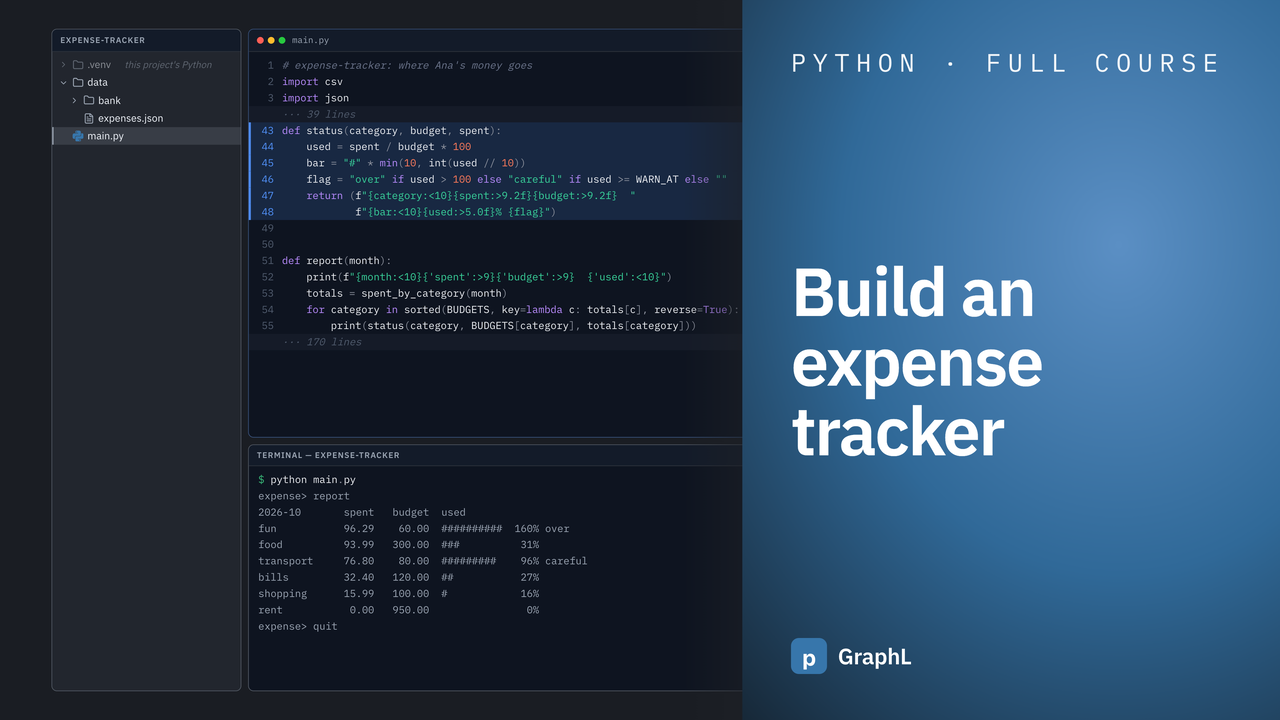
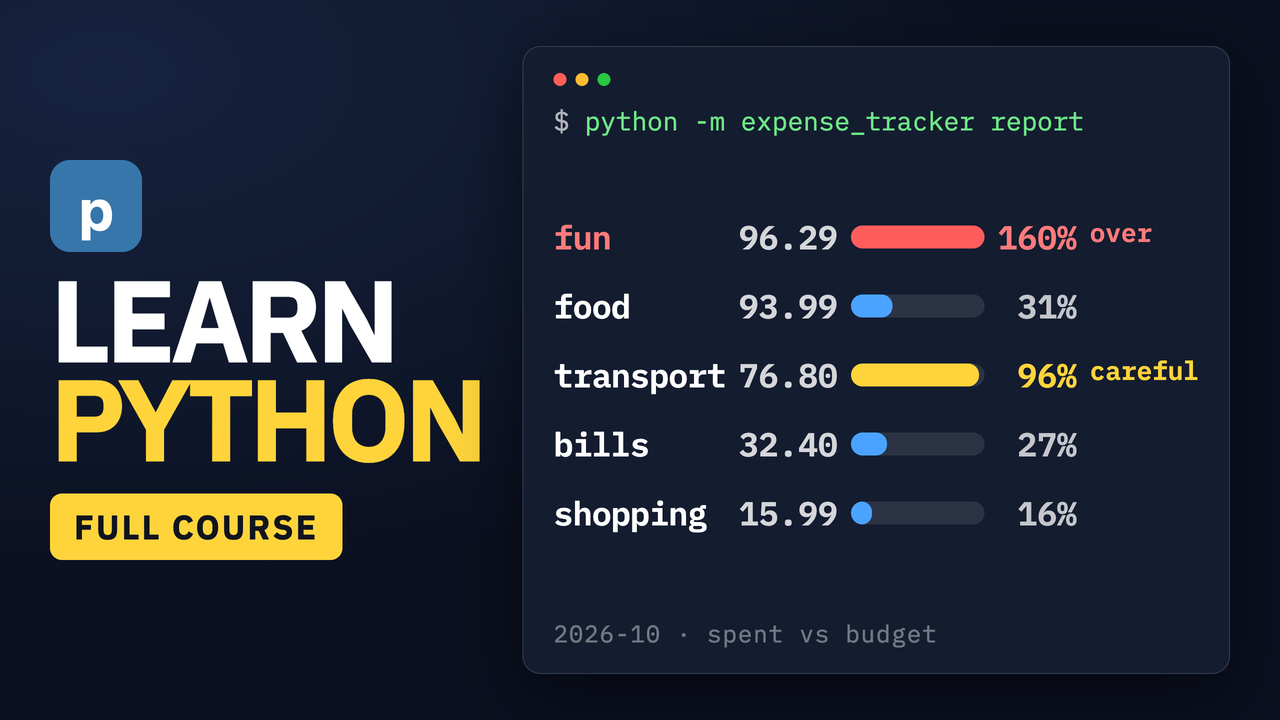
Build the film thumbnail from the real report, not a scene crop
The shell's `graphl-thumb` renders a per-course poster: 58% of a scene plus a
text panel. A scene is a 16:9 video frame, and cropped to 58% it turns to mush
at the ~168px the YouTube mobile feed actually renders — which is the only size
that decides a thumbnail. scripts/thumb-film.mjs uses poster grammar instead:
few elements, enormous type, one focal object. Every change was checked by
downscaling to 168px rather than by looking at it at 1280px.

Two guards keep it honest, so the content cannot drift from the course:

- The rows are parsed out of spine/ship/04-the-finished-app/session.txt, the
  same replayed output the scenes use, and a row that is not in that report is
  a hard error. An invented number cannot reach the thumbnail.

- The renderer asserts no element overflows its box. This caught `over` and
  `careful` being silently clipped off the right edge after the type was
  enlarged; a clipped label now fails the build instead of shipping.

That first guard is the exact failure mode of the generated samples already in
this folder, which show `python expense_tracker.py`, invented round totals, a
"% of Total" column and a 1/2/3/4 menu — an app this course does not build.
output/thumbnails/README.md records the mismatch and why the samples were not
used; the samples themselves are left in place.

film.png ships the dark variant; navy and light are kept beside it. The
superseded graphl-thumb attempts (film-a/b/c) are removed — git history has
them.

diff --git a/output/thumbnails/README.md b/output/thumbnails/README.md
@@ -1,22 +1,44 @@
 # Thumbnails
 
-`film.png` — the chosen thumbnail for the single full-course video
-(`scripts/out/film.mp4`). Built from a real scene, not an illustration:
+`film.png` — the thumbnail for the single full-course video (`scripts/out/film.mp4`).
+A copy of `film-dark.png`. Rebuild any variant with:
 
 ```sh
-LOGO_SVG=public/favicon.svg npm run thumb -- report --section 6 \
-  --title "Build an expense tracker" --kicker "PYTHON · FULL COURSE" \
-  --out output/thumbnails/film.png
+npm run thumb:film -- --theme dark --rows fun,food,transport,bills,shopping \
+  --out output/thumbnails/film-dark.png
 ```
 
-`report --section 6` is *Formatting the report*: the editor shows the code and the
-terminal below it shows October's real report — the `#` bars, `160% over`,
-`96% careful`. The template renders the LEFT 58% of the scene, so a scene whose
-payoff sits on the right (the app map in `intro`/`ship`) gets clipped; that is why
-this one was picked over `film-a` / `film-b`.
+Variants kept for comparison: `film-dark.png` (shipped), `film-navy.png`,
+`film-light.png` (stands out in a dark feed, but blue reads softer than yellow).
 
-`film-a.png`, `film-b.png`, `film-c.png` — candidates kept for comparison
-(`film.png` is a copy of `film-c.png`).
+## Why not `npm run thumb` (the shell's `graphl-thumb`)
 
-`01-*.png`, `02-*.png`, `03-*.png` — earlier illustrative samples from an image
-generation tool, NOT screenshots of the app. See `prompts.txt`.
+That template is a **per-course** poster: 58% of a scene plus a text panel. A scene is a
+16:9 video frame, and cropped to 58% it turns to unreadable mush at the ~168px wide the
+YouTube mobile feed actually renders — which is the only size that decides a thumbnail.
+`scripts/thumb-film.mjs` uses poster grammar instead: few elements, enormous type, one
+focal object. Every change was checked by downscaling to 168px, not by looking at 1280px.
+
+## Why not the generated samples
+
+`01-build-this.png`, `02-zero-to-app.png`, `03-python-by-building.png` are illustrative
+images from an image-generation tool, not screenshots (see `prompts.txt`). They are more
+striking, but they advertise an app this course does not build:
+
+| they show | the course actually builds |
+| --- | --- |
+| `python expense_tracker.py` | `expense-tracker report` — Course 7 teaches why it is `-m`/a package |
+| Food £240, Transport £85, Total £495 | fun 96.29, food 93.99, transport 76.80, bills 32.40, shopping 15.99 |
+| "% of Total" | spent vs **budget** — the point of the app |
+| a 1/2/3/4 numbered menu | an argparse CLI and an `expense>` loop |
+
+A thumbnail that promises a different app buys clicks and loses retention, and YouTube
+weights retention far above CTR.
+
+## Where the numbers come from
+
+`thumb-film.mjs` parses the report out of `spine/ship/04-the-finished-app/session.txt` —
+the same replayed output the scenes use — and fails if a requested row is not in it. So the
+thumbnail cannot drift from the recorded course, and nothing on it is typed by hand. The
+renderer also asserts no element overflows its box, so a clipped label fails the build
+instead of shipping.
